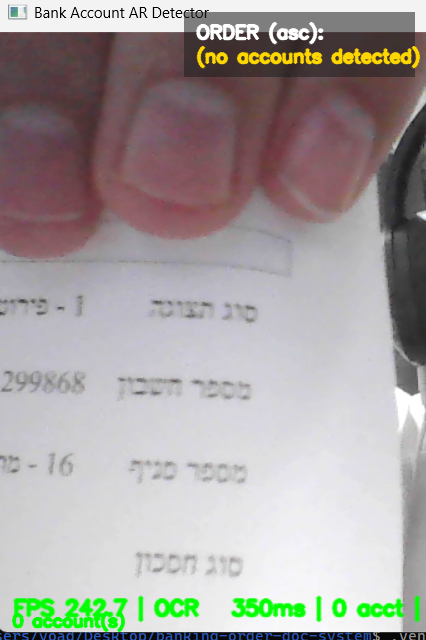
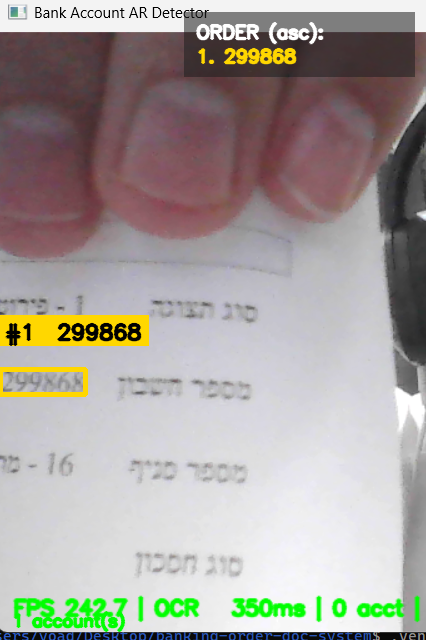
fix how the ai reads the doucs

Changed region(s): [[0.0, 0.4688, 0.3662, 0.625], [0.4577, 0.0625, 1.0, 0.125], [0.0305, 0.9375, 0.061, 1.0]]

diff --git a/account_ar/pipeline.py b/account_ar/pipeline.py
@@ -23,16 +23,22 @@ class AccountTracker:
     account on screen for `ttl` seconds, refreshing each time it is re-seen.
     """
 
-    def __init__(self, ttl: float):
+    def __init__(self, ttl: float, confirm_sightings: int = 1):
         self.ttl = ttl
-        self._seen: Dict[str, Tuple[AccountNumber, float]] = {}
+        self.confirm_sightings = max(1, confirm_sightings)
+        # digits -> (latest detection, last_seen_time, times_seen_in_window)
+        self._seen: Dict[str, Tuple[AccountNumber, float, int]] = {}
 
     def update(self, accounts: List[AccountNumber], now: Optional[float] = None) -> List[AccountNumber]:
         now = time.time() if now is None else now
         for acc in accounts:
-            self._seen[acc.digits] = (acc, now)  # newest detection (freshest box) wins
-        self._seen = {d: (a, t) for d, (a, t) in self._seen.items() if now - t <= self.ttl}
-        return [a for (a, _) in self._seen.values()]
+            prev = self._seen.get(acc.digits)
+            count = (prev[2] + 1) if prev else 1
+            self._seen[acc.digits] = (acc, now, count)  # newest detection (freshest box) wins
+        self._seen = {d: v for d, v in self._seen.items() if now - v[1] <= self.ttl}
+        # SAFETY: only surface a number once it has been read >= confirm_sightings times,
+        # so a single rotated/glare misread never reaches the screen.
+        return [a for (a, _, c) in self._seen.values() if c >= self.confirm_sightings]
 
     def clear(self) -> None:
         self._seen.clear()
@@ -44,7 +50,7 @@ class ARPipeline:
         self.camera = camera
         self.ocr = OcrEngine(settings)
         self._result = FrameResult()
-        self._tracker = AccountTracker(settings.track_seconds)
+        self._tracker = AccountTracker(settings.track_seconds, settings.confirm_sightings)
         self._lock = threading.Lock()
         self._running = False
         self._paused = False
@@ -54,6 +60,38 @@ class ARPipeline:
         self._running = True
         self._thread = threading.Thread(target=self._loop, daemon=True)
         self._thread.start()
+
+    def roi_rect(self, frame):
+        """Central magnifier box (x, y, w, h) in `frame` pixels, or None when disabled."""
+        if not self.settings.roi_enabled:
+            return None
+        h, w = frame.shape[:2]
+        rw = int(w * self.settings.roi_width_frac)
+        rh = int(h * self.settings.roi_height_frac)
+        return ((w - rw) // 2, (h - rh) // 2, rw, rh)
+
+    @staticmethod
+    def _shift(det: "Detection", dx: int, dy: int) -> "Detection":
+        from .types import Detection
+
+        return Detection(text=det.text, confidence=det.confidence,
+                         polygon=[(x + dx, y + dy) for (x, y) in det.polygon])
+
+    def _sharpness(self, frame) -> float:
+        """Normalized focus score (variance of the Laplacian) of `frame`.
+
+        Resized to a fixed width first so the number means the same thing on any
+        camera resolution. Higher = sharper; a badly out-of-focus or motion-blurred
+        frame scores near zero.
+        """
+        import cv2
+
+        gray = cv2.cvtColor(frame, cv2.COLOR_BGR2GRAY)
+        h, w = gray.shape
+        nw = self.settings.sharpness_norm_width
+        if w > nw:
+            gray = cv2.resize(gray, (nw, int(h * nw / w)), interpolation=cv2.INTER_AREA)
+        return float(cv2.Laplacian(gray, cv2.CV_64F).var())
 
     def _loop(self) -> None:
         self.ocr.ensure_loaded()  # verify the Tesseract engine once
@@ -66,14 +104,40 @@ class ARPipeline:
                 time.sleep(0.02)
                 continue
             try:
-                detections, ocr_ms, size = self.ocr.read(frame)
+                size = (frame.shape[1], frame.shape[0])
+                # When the magnifier box is on, work on just that central region so the
+                # focus check and OCR both apply to what the user is aiming at.
+                roi = self.roi_rect(frame)
+                if roi is not None:
+                    rx, ry, rw, rh = roi
+                    region = frame[ry:ry + rh, rx:rx + rw]
+                else:
+                    rx, ry, region = 0, 0, frame
+
+                sharpness = self._sharpness(region)
+                # Too blurry to read anything — don't waste 1-2s OCRing noise. Keep any
+                # recently-tracked accounts on screen and tell the UI the frame was skipped.
+                if sharpness < self.settings.min_sharpness:
+                    tracked = (self._tracker.update([]) if self.settings.track_seconds > 0
+                               else [])
+                    with self._lock:
+                        self._result = FrameResult(
+                            accounts=rank_accounts(tracked, self.settings), frame_size=size,
+                            ocr_ms=0.0, detections=[], sharpness=sharpness, ocr_skipped=True)
+                    time.sleep(0.01)
+                    continue
+
+                detections, ocr_ms, _ = self.ocr.read(region)
+                if roi is not None:  # map ROI-local boxes back onto the full frame
+                    detections = [self._shift(d, rx, ry) for d in detections]
                 accounts = associate_accounts(detections, self.settings)
                 if self.settings.track_seconds > 0:
                     accounts = self._tracker.update(accounts)
                 ranked = rank_accounts(accounts, self.settings)
                 with self._lock:
                     self._result = FrameResult(accounts=ranked, frame_size=size,
-                                               ocr_ms=ocr_ms, detections=detections)
+                                               ocr_ms=ocr_ms, detections=detections,
+                                               sharpness=sharpness, ocr_skipped=False)
             except Exception as exc:  # keep the worker alive on transient errors
                 print(f"[pipeline] OCR error: {exc}")
                 time.sleep(0.1)

diff --git a/account_ar/main.py b/account_ar/main.py
@@ -109,7 +109,8 @@ def run_image(settings: Settings, image_path: str, output_path=None,
 def run(settings: Settings, debug: bool = False) -> int:
     import cv2
 
-    camera = Camera(settings.camera_index, settings.camera_width, settings.camera_height)
+    camera = Camera(settings.camera_index, settings.camera_width, settings.camera_height,
+                    settings.camera_rotation)
     try:
         camera.open()
     except RuntimeError as exc:
@@ -122,7 +123,7 @@ def run(settings: Settings, debug: bool = False) -> int:
 
     print("Initializing OCR (Tesseract)...")
     print("Keys:  q/ESC quit | space screenshot | p pause | a accept-unlabeled | "
-          "b preprocess-mode | c clear-memory")
+          "b preprocess-mode | c clear-memory | r rotate-view")
 
     last = time.perf_counter()
     fps = 0.0
@@ -145,13 +146,30 @@ def run(settings: Settings, debug: bool = False) -> int:
 
             if not pipeline.ocr_ready:
                 status = "Loading OCR model..."
+            elif result.ocr_skipped:
+                status = (f"FPS {fps:4.1f} | frame too blurry (sharp {result.sharpness:4.0f}"
+                          f"<{settings.min_sharpness:.0f}) - skipping OCR | "
+                          f"{len(result.accounts)} acct held")
             else:
                 status = (f"FPS {fps:4.1f} | OCR {result.ocr_ms:5.0f}ms | "
-                          f"{len(result.accounts)} acct | prep={settings.preprocess} | "
-                          f"unlabeled={'ON' if settings.accept_unlabeled else 'off'}")
+                          f"sharp {result.sharpness:4.0f} | {len(result.accounts)} acct | "
+                          f"rot {camera.rotation} | prep={settings.preprocess}")
 
             raw = frame.copy()  # clean frame (no overlay) for screenshots / OCR debug
-            overlay.draw(frame, result.accounts, status=status, scale=scale)
+            if settings.roi_enabled:  # magnifier target box — aim the number inside it
+                h, w = frame.shape[:2]
+                rw, rh = int(w * settings.roi_width_frac), int(h * settings.roi_height_frac)
+                rx, ry = (w - rw) // 2, (h - rh) // 2
+                cv2.rectangle(frame, (rx, ry), (rx + rw, ry + rh), (0, 255, 255), 2)
+                cv2.putText(frame, "aim the account number inside this box", (rx + 6, ry - 10),
+                            cv2.FONT_HERSHEY_SIMPLEX, 0.55, (0, 255, 255), 2, cv2.LINE_AA)
+            overlay.draw(frame, result.accounts, status=status, scale=scale,
+                         sharpness=result.sharpness,
+                         good_sharpness=settings.good_sharpness,
+                         min_sharpness=settings.min_sharpness)
+            cv2.putText(frame, "keys: r=rotate  t=zoom-box on/off  c=clear  space=save  q=quit",
+                        (12, frame.shape[0] - 38), cv2.FONT_HERSHEY_SIMPLEX, 0.5,
+                        (255, 255, 255), 1, cv2.LINE_AA)
             cv2.imshow(settings.window_name, frame)
 
             key = cv2.waitKey(1) & 0xFF
@@ -171,6 +189,14 @@ def run(settings: Settings, debug: bool = False) -> int:
             elif key == ord("c"):
                 pipeline.clear_tracked()
                 print("[ui] cleared remembered accounts")
+            elif key == ord("r"):
+                deg = camera.cycle_rotation()
+                pipeline.clear_tracked()  # old reads were in the previous orientation
+                print(f"[ui] view rotation = {deg} deg")
+            elif key == ord("t"):
+                settings.roi_enabled = not settings.roi_enabled
+                pipeline.clear_tracked()
+                print(f"[ui] zoom-box = {'ON' if settings.roi_enabled else 'off'}")
             elif key == ord(" "):
                 ts = int(time.time())
                 cv2.imwrite(os.path.abspath(f"screenshot_{ts}.png"), frame)

diff --git a/account_ar/overlay.py b/account_ar/overlay.py
@@ -92,12 +92,20 @@ class Overlay:
         accounts: List[AccountNumber],
         status: str = "",
         scale: float = 1.0,
+        sharpness: Optional[float] = None,
+        good_sharpness: float = 75.0,
+        min_sharpness: float = 30.0,
     ):
         """Render boxes + ranks for `accounts` onto `frame` in place.
 
         `scale` maps OCR-frame coordinates to the current display frame.
+        When `sharpness` is given, a live focus meter is drawn so the user can see
+        whether the frame is sharp enough to read.
         """
         import cv2
+
+        if sharpness is not None:
+            self._draw_focus(frame, sharpness, good_sharpness, min_sharpness)
 
         for acc in sorted(accounts, key=lambda a: (a.rank or 999)):
             color = _color(acc.rank)
@@ -157,3 +165,25 @@ class Overlay:
 
         h = frame.shape[0]
         cv2.putText(frame, status, (12, h - 14), cv2.FONT_HERSHEY_SIMPLEX, 0.55, (0, 255, 0), 2, cv2.LINE_AA)
+
+    def _draw_focus(self, frame, sharpness: float, good: float, minv: float):
+        """Top-left focus meter: a bar that fills toward green as the frame gets sharper.
+
+        Red + 'BLURRY' below the OCR threshold, orange while soft, green when sharp.
+        Gives the user immediate feedback to fix focus/distance instead of guessing.
+        """
+        import cv2
+
+        if sharpness >= good:
+            color, label = (0, 220, 0), "FOCUS OK"
+        elif sharpness >= minv:
+            color, label = (0, 165, 255), "FOCUS: soft - hold steady"
+        else:
+            color, label = (0, 0, 255), "BLURRY - move back / tap to focus"
+
+        x0, y0, bw, bh = 12, 14, 260, 20
+        frac = max(0.05, min(1.0, sharpness / float(good)))
+        cv2.rectangle(frame, (x0, y0), (x0 + bw, y0 + bh), (60, 60, 60), -1)
+        cv2.rectangle(frame, (x0, y0), (x0 + int(bw * frac), y0 + bh), color, -1)
+        cv2.rectangle(frame, (x0, y0), (x0 + bw, y0 + bh), (220, 220, 220), 1)
+        cv2.putText(frame, label, (x0, y0 + bh + 20), cv2.FONT_HERSHEY_SIMPLEX, 0.6, color, 2, cv2.LINE_AA)

diff --git a/account_ar/config.py b/account_ar/config.py
@@ -55,6 +55,15 @@ class Settings:
     preprocess: str = "clahe"             # none|gray|clahe|otsu|adaptive — cleanup before OCR
     min_ocr_confidence: float = 0.20
 
+    # Focus gating (live mode). A blurry/out-of-focus frame has no readable text in it,
+    # so OCRing it just wastes ~1-2s and produces noise. We measure sharpness (variance
+    # of the Laplacian) on each frame, normalized to a fixed width so the threshold is
+    # the same for any camera resolution. Below `min_sharpness` we SKIP OCR and tell the
+    # user to adjust focus/distance; at/above `good_sharpness` the on-screen meter is green.
+    sharpness_norm_width: int = 1000      # resize width before measuring sharpness
+    min_sharpness: float = 30.0           # skip OCR below this (frame too blurry to read)
+    good_sharpness: float = 75.0          # focus meter turns green at/above this
+
     # Account-number shape
     min_digits: int = 4
     max_digits: int = 13
@@ -84,14 +93,29 @@ class Settings:
     # Modes
     accept_unlabeled: bool = False     # accept numbers with no nearby label
     ascending: bool = True             # sort order
-    track_seconds: float = 2.5         # live mode: keep an account on screen this long after
+    track_seconds: float = 3.0         # live mode: keep an account on screen this long after
                                        # its last sighting, so one good frame "sticks" even when
                                        # most frames (glare/blur/angle) are unreadable. 0 = off.
+    confirm_sightings: int = 2         # SAFETY: only show a number after it has been read this
+                                       # many times (same value) within track_seconds. Stops a
+                                       # one-off misread (glare/rotation) from flashing a wrong
+                                       # account. 1 = show immediately (less safe, more "instant").
+
+    # Magnifier target box ("ROI"). Instead of OCRing the whole frame, read only a
+    # central box (drawn on screen) and digitally zoom into it. Lets the user aim the
+    # account-number line into the box from a bit further back, and avoids picking up
+    # other numbers elsewhere on the page. Press 't' to toggle, 'r' is rotation.
+    roi_enabled: bool = True
+    roi_width_frac: float = 0.70       # box width as a fraction of the frame
+    roi_height_frac: float = 0.24      # box height (a horizontal band suits one text line)
 
     # Camera / UI
     camera_index: int = 0
     camera_width: int = 1280              # request a higher-res capture for readable text
     camera_height: int = 720
+    camera_rotation: int = 0              # rotate every frame by 0/90/180/270 deg so the page
+                                          # reads upright (some phone-as-webcam feeds come in
+                                          # flipped). Press 'r' live to cycle until it looks right.
     window_name: str = "Bank Account AR Detector"
 
     @classmethod

diff --git a/account_ar/camera.py b/account_ar/camera.py
@@ -6,10 +6,11 @@ from typing import Optional
 
 
 class Camera:
-    def __init__(self, index: int = 0, width: int = 0, height: int = 0):
+    def __init__(self, index: int = 0, width: int = 0, height: int = 0, rotation: int = 0):
         self.index = index
         self.width = width
         self.height = height
+        self.rotation = rotation % 360   # 0/90/180/270 applied to every frame
         self._cap = None
         self._lock = threading.Lock()
         self._frame = None
@@ -45,9 +46,23 @@ class Camera:
                     self._frame = frame
 
     def read(self):
-        """Return the most recent frame (a copy), or None if not ready yet."""
+        """Return the most recent frame (a copy), rotated per `self.rotation`."""
         with self._lock:
-            return None if self._frame is None else self._frame.copy()
+            frame = None if self._frame is None else self._frame.copy()
+        if frame is not None and self.rotation:
+            import cv2
+
+            code = {90: cv2.ROTATE_90_CLOCKWISE,
+                    180: cv2.ROTATE_180,
+                    270: cv2.ROTATE_90_COUNTERCLOCKWISE}.get(self.rotation)
+            if code is not None:
+                frame = cv2.rotate(frame, code)
+        return frame
+
+    def cycle_rotation(self) -> int:
+        """Advance rotation 0->90->180->270->0 and return the new value."""
+        self.rotation = (self.rotation + 90) % 360
+        return self.rotation
 
     def release(self) -> None:
         self._running = False

diff --git a/tests/test_tracker.py b/tests/test_tracker.py
@@ -44,6 +44,20 @@ class TestAccountTracker(unittest.TestCase):
         tr.clear()
         self.assertEqual(tr.update([], now=0.1), [])
 
+    def test_confirm_sightings_hides_one_off_misread(self):
+        # SAFETY: with confirm_sightings=2 a number must be read twice before it shows,
+        # so a single rotated/glare misread never reaches the screen.
+        tr = AccountTracker(ttl=3.0, confirm_sightings=2)
+        self.assertEqual(tr.update([_acct("898662")], now=0.0), [])      # first sighting: hidden
+        out = tr.update([_acct("898662")], now=1.0)                       # second: confirmed
+        self.assertEqual([a.digits for a in out], ["898662"])
+
+    def test_confirm_sightings_one_off_then_gone(self):
+        tr = AccountTracker(ttl=2.0, confirm_sightings=2)
+        self.assertEqual(tr.update([_acct("898662")], now=0.0), [])      # seen once, hidden
+        self.assertEqual(tr.update([], now=1.0), [])                      # not re-seen, still hidden
+        self.assertEqual(tr.update([], now=3.0), [])                      # expired, never shown
+
 
 if __name__ == "__main__":
     unittest.main()

diff --git a/account_ar/types.py b/account_ar/types.py
@@ -69,3 +69,5 @@ class FrameResult:
     frame_size: Tuple[int, int] = (0, 0)  # (width, height) the OCR ran on
     ocr_ms: float = 0.0
     detections: List[Detection] = field(default_factory=list)  # raw OCR, for debug
+    sharpness: float = 0.0                # normalized focus score of the last frame
+    ocr_skipped: bool = False             # True when the frame was too blurry to OCR